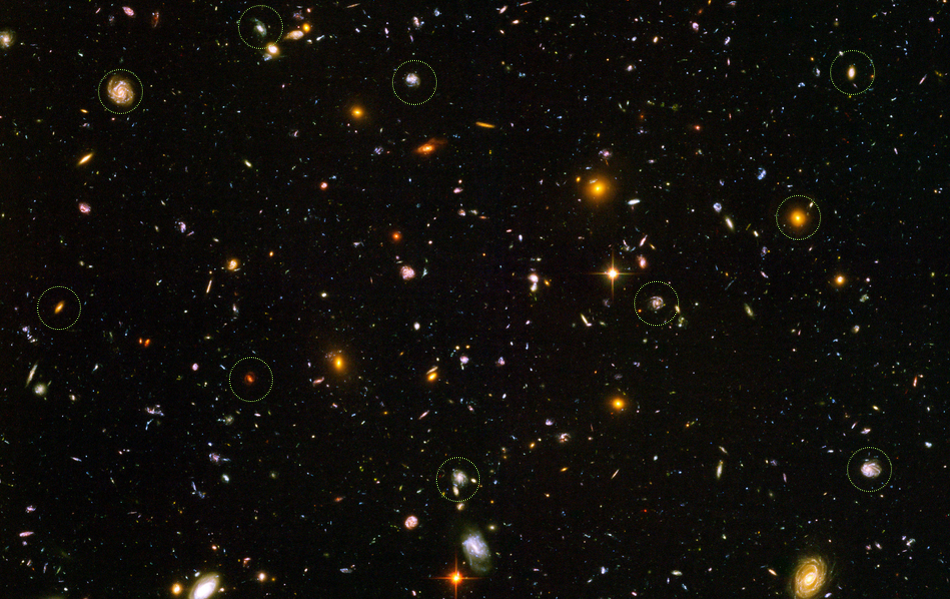
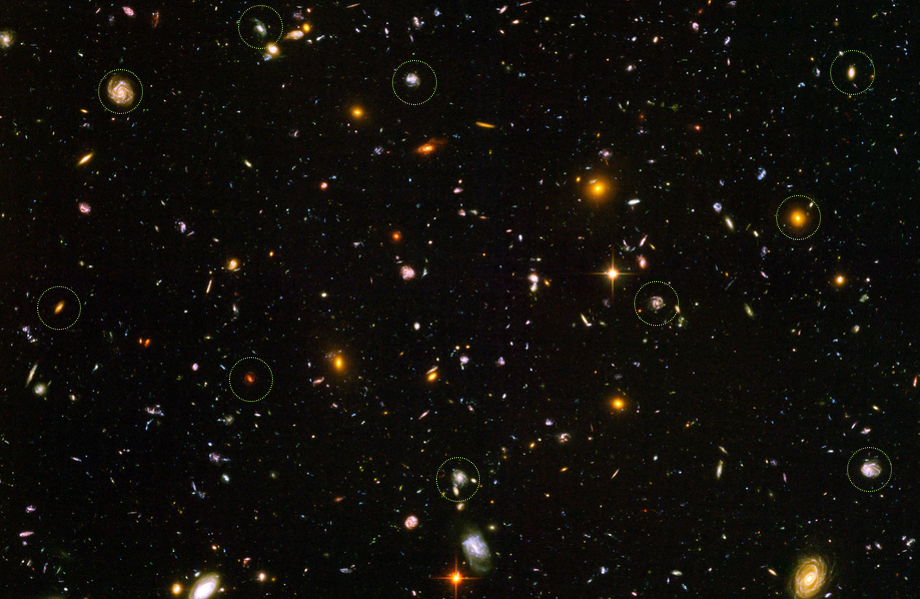
fdsds

diff --git a/webfiles/stars/hovermap.html b/webfiles/stars/hovermap.html
@@ -19,7 +19,7 @@
         }).click(function(e) { e.preventDefault(); });
     });</script>
 </head><body style="background-color: black;">
-<img src="deepfield.png" class="map" usemap="#simple" height="599" width="950"><map name="simple">
+<img src="deepfield.png" class="map" usemap="#simple" height="599" width="920"><map name="simple">
 
 <area id="squidhead01" href="#" shape="circle" coords="120,92,30" alt="Octoface" data-maphilight="{&quot;stroke&quot;:false,&quot;fillColor&quot;:&quot;ff0000&quot;,&quot;fillOpacity&quot;:0.6}"  title="NGC-1337, d = 015 Mpc,  v = 1100 km/s">
 <area id="squidhead02" href="#" shape="circle" coords="261,28,30" alt="Octoface" data-maphilight="{&quot;stroke&quot;:false,&quot;fillColor&quot;:&quot;ff0000&quot;,&quot;fillOpacity&quot;:0.6}"  title="NGC-7854, d = 097 Mpc,  v = 6700 km/s">
